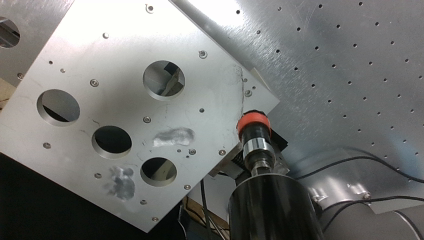
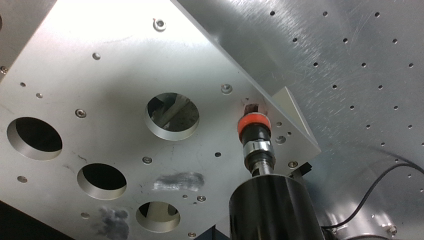
이상 에피소드 제거하고 재학습

diff --git a/source/custom/_imitation_form_converter.py b/source/custom/_imitation_form_converter.py
@@ -1726,6 +1726,27 @@ def _resolve_reference_episode_name(ep_names: Sequence[str], requested: str) -> 
     raise KeyError(f"Reference episode {requested!r} not found. Available: {list(ep_names)[:8]}...")
 
 
+def _parse_episode_indices(value: str) -> List[int]:
+    raw = str(value or "").strip()
+    if not raw:
+        return []
+    indices: List[int] = []
+    for token in raw.split(","):
+        item = token.strip()
+        if not item:
+            continue
+        try:
+            index = int(item)
+        except ValueError as exc:
+            raise argparse.ArgumentTypeError(
+                f"episode indices must be comma-separated integers, got {item!r}"
+            ) from exc
+        if index < 0:
+            raise argparse.ArgumentTypeError(f"episode index must be non-negative, got {index}")
+        indices.append(index)
+    return sorted(set(indices))
+
+
 def convert_merged_h5(
     input_h5: Path,
     output_dir: Path,
@@ -1737,6 +1758,7 @@ def convert_merged_h5(
     overwrite: bool,
     write_summary: bool,
     include_gripper: bool = False,
+    exclude_episode_indices: Sequence[int] = (),
     stain_mask_mode: str = "auto",
     stain_reference_episode: str = "ep_0000",
     stain_exclude_reference_episode: bool = True,
@@ -1820,6 +1842,7 @@ def convert_merged_h5(
 
     written: List[Path] = []
     failed: List[Tuple[str, str]] = []
+    skipped: List[Tuple[int, str]] = []
 
     with h5py.File(str(input_h5), "r") as f:
         if "episodes" not in f:
@@ -1828,6 +1851,13 @@ def convert_merged_h5(
         ep_names = sorted(name for name in f["episodes"].keys() if not str(name).endswith("__writing"))
         if not ep_names:
             raise RuntimeError(f"No episodes found under {input_h5}/episodes")
+        excluded_indices = sorted(set(int(i) for i in exclude_episode_indices))
+        invalid_indices = [i for i in excluded_indices if i < 0 or i >= len(ep_names)]
+        if invalid_indices:
+            raise ValueError(
+                f"exclude_episode_indices out of range for {len(ep_names)} episodes: {invalid_indices}"
+            )
+        excluded_set = set(excluded_indices)
 
         effective_stain_mode = _resolve_stain_mask_mode(f, stain_mask_mode)
         mask_metadata: Optional[Dict[str, object]] = None
@@ -1871,6 +1901,7 @@ def convert_merged_h5(
         print(f"[INFO] camera_names   = {camera_names}")
         print(f"[INFO] include_gripper= {int(bool(include_gripper))}")
         print(f"[INFO] episodes found = {len(ep_names)}")
+        print(f"[INFO] excluded idx   = {excluded_indices}")
         print(f"[INFO] stain_mode     = {effective_stain_mode}")
         if effective_stain_mode == "tcp_roi":
             if float(tcp_roi_area_fraction) > 0.0:
@@ -1891,8 +1922,12 @@ def convert_merged_h5(
             print(f"[INFO] stain_ref_ep   = {reference_ep_name} (exclude={int(bool(stain_exclude_reference_episode))})")
 
         out_idx = 0
-        for ep_name in ep_names:
+        for ep_index, ep_name in enumerate(ep_names):
             try:
+                if ep_index in excluded_set:
+                    skipped.append((ep_index, ep_name))
+                    print(f"[SKIP] source index {ep_index} ({ep_name}): explicitly excluded")
+                    continue
                 if (
                     effective_stain_mode == "reference_episode"
                     and bool(stain_exclude_reference_episode)
@@ -2069,6 +2104,11 @@ def convert_merged_h5(
                     "written": [str(p) for p in written],
                     "num_failed": len(failed),
                     "failed": [{"episode": ep, "error": err} for ep, err in failed],
+                    "num_excluded": len(skipped),
+                    "excluded": [
+                        {"source_index": index, "source_episode": ep}
+                        for index, ep in skipped
+                    ],
                     "schema_version": "imitation_form_compact_v1",
                     "include_gripper": bool(include_gripper),
                     "stain_mask_mode": effective_stain_mode,
@@ -2124,7 +2164,10 @@ def convert_merged_h5(
             )
         print(f"[INFO] wrote summary: {summary_path}")
 
-    print(f"[DONE] converted episodes: {len(written)} / {len(written) + len(failed)}")
+    print(
+        f"[DONE] written={len(written)}, excluded={len(skipped)}, failed={len(failed)}, "
+        f"source_total={len(written) + len(skipped) + len(failed)}"
+    )
     if not written:
         raise RuntimeError("No episodes were converted successfully.")
     return written
@@ -2162,6 +2205,15 @@ def build_parser(
     parser.add_argument("--gzip_level", type=int, default=4)
     parser.add_argument("--overwrite", action="store_true", help="Replace output_dir if it contains old episodes.")
     parser.add_argument("--write_summary", action="store_true", help="Write conversion_summary.json into output_dir.")
+    parser.add_argument(
+        "--exclude_episode_indices",
+        type=_parse_episode_indices,
+        default=[],
+        help=(
+            "Comma-separated zero-based source episode indices to exclude, for example 27,32. "
+            "Remaining episodes are renumbered contiguously in the output directory."
+        ),
+    )
     parser.add_argument(
         "--include_gripper",
         dest="include_gripper",
@@ -2543,6 +2595,7 @@ def run_cli(
         overwrite=bool(args.overwrite),
         write_summary=bool(args.write_summary),
         include_gripper=bool(args.include_gripper),
+        exclude_episode_indices=args.exclude_episode_indices,
         stain_mask_mode=str(args.stain_mask_mode),
         stain_reference_episode=str(args.stain_reference_episode),
         stain_exclude_reference_episode=not bool(args.keep_stain_reference_episode),

diff --git a/behavior_ws/src/nrs_imitation/nrs_imitation/stain_mask_publisher.py b/behavior_ws/src/nrs_imitation/nrs_imitation/stain_mask_publisher.py
@@ -87,6 +87,11 @@ class StainMaskPublisher(Node):
         self.declare_parameter("task_roi_center_x", 253)
         self.declare_parameter("task_roi_y_end", 110)
         self.declare_parameter("task_roi_half_width", 12)
+        self.declare_parameter("tcp_roi_reference_width", 424)
+        self.declare_parameter("tcp_roi_reference_height", 240)
+        self.declare_parameter("tcp_roi_center_x", 253)
+        self.declare_parameter("tcp_roi_center_y", 120)
+        self.declare_parameter("tcp_roi_area_fraction", 0.10)
         self.declare_parameter("stain_dark_thresh", 80)
         self.declare_parameter("reflection_v_thresh", 235)
         self.declare_parameter("reflection_s_thresh", 60)
@@ -103,6 +108,11 @@ class StainMaskPublisher(Node):
         self.task_roi_center_x = int(self.get_parameter("task_roi_center_x").value)
         self.task_roi_y_end = int(self.get_parameter("task_roi_y_end").value)
         self.task_roi_half_width = int(self.get_parameter("task_roi_half_width").value)
+        self.tcp_roi_reference_width = int(self.get_parameter("tcp_roi_reference_width").value)
+        self.tcp_roi_reference_height = int(self.get_parameter("tcp_roi_reference_height").value)
+        self.tcp_roi_center_x = int(self.get_parameter("tcp_roi_center_x").value)
+        self.tcp_roi_center_y = int(self.get_parameter("tcp_roi_center_y").value)
+        self.tcp_roi_area_fraction = float(self.get_parameter("tcp_roi_area_fraction").value)
         self.stain_dark_thresh = int(self.get_parameter("stain_dark_thresh").value)
         self.reflection_v_thresh = int(self.get_parameter("reflection_v_thresh").value)
         self.reflection_s_thresh = int(self.get_parameter("reflection_s_thresh").value)
@@ -110,12 +120,16 @@ class StainMaskPublisher(Node):
         self.stain_morph_kernel = int(self.get_parameter("stain_morph_kernel").value)
         self.overlay_alpha = float(self.get_parameter("overlay_alpha").value)
         self.log_every_n = max(1, int(self.get_parameter("log_every_n").value))
-        if self.mask_mode not in ("rgb_threshold", "task_roi"):
+        if self.mask_mode not in ("rgb_threshold", "task_roi", "tcp_roi"):
             raise ValueError(
-                f"mask_mode must be rgb_threshold or task_roi, got {self.mask_mode}"
+                f"mask_mode must be rgb_threshold, task_roi, or tcp_roi, got {self.mask_mode}"
             )
         if self.task_roi_half_width < 0:
             raise ValueError("task_roi_half_width must be non-negative")
+        if self.tcp_roi_reference_width <= 0 or self.tcp_roi_reference_height <= 0:
+            raise ValueError("tcp_roi reference resolution must be positive")
+        if not 0.0 < self.tcp_roi_area_fraction <= 1.0:
+            raise ValueError("tcp_roi_area_fraction must be in (0, 1]")
 
         img_qos = _image_qos(
             depth=1,
@@ -137,6 +151,9 @@ class StainMaskPublisher(Node):
             f"mode={self.mask_mode}, "
             f"task_roi=(center_x={self.task_roi_center_x}, y_end={self.task_roi_y_end}, "
             f"half_width={self.task_roi_half_width}), "
+            f"tcp_roi=(ref={self.tcp_roi_reference_width}x{self.tcp_roi_reference_height}, "
+            f"center=({self.tcp_roi_center_x},{self.tcp_roi_center_y}), "
+            f"area_fraction={self.tcp_roi_area_fraction:.6f}), "
             f"dark_thresh={self.stain_dark_thresh}, min_area={self.stain_min_area}, "
             f"morph_kernel={self.stain_morph_kernel}"
         )
@@ -159,6 +176,27 @@ class StainMaskPublisher(Node):
             mask[:y1, x0:x1] = 255
         return mask
 
+    def _make_tcp_roi_mask(self, rgb: np.ndarray) -> np.ndarray:
+        height, width = rgb.shape[:2]
+        scale_x = float(width) / float(self.tcp_roi_reference_width)
+        scale_y = float(height) / float(self.tcp_roi_reference_height)
+        center_x = int(round(self.tcp_roi_center_x * scale_x))
+        center_y = int(round(self.tcp_roi_center_y * scale_y))
+
+        side = max(
+            1,
+            int(round(np.sqrt(self.tcp_roi_area_fraction * float(width * height)))),
+        )
+        side = min(side, width, height)
+        x0 = min(max(0, center_x - side // 2), width - side)
+        y0 = min(max(0, center_y - side // 2), height - side)
+        x1 = x0 + side
+        y1 = y0 + side
+
+        mask = np.zeros((height, width), dtype=np.uint8)
+        mask[y0:y1, x0:x1] = 255
+        return mask
+
     def _on_image(self, msg: Image):
         try:
             rgb = image_to_rgb_numpy(msg)
@@ -167,6 +205,8 @@ class StainMaskPublisher(Node):
 
             if self.mask_mode == "task_roi":
                 mask = self._make_task_roi_mask(rgb)
+            elif self.mask_mode == "tcp_roi":
+                mask = self._make_tcp_roi_mask(rgb)
             else:
                 mask = generate_stain_mask_from_rgb(
                     rgb,

diff --git a/behavior_ws/src/nrs_imitation/launch/inference_gradcam_single_cam.launch.py b/behavior_ws/src/nrs_imitation/launch/inference_gradcam_single_cam.launch.py
@@ -26,6 +26,11 @@ def generate_launch_description():
     task_roi_center_x = LaunchConfiguration("task_roi_center_x")
     task_roi_y_end = LaunchConfiguration("task_roi_y_end")
     task_roi_half_width = LaunchConfiguration("task_roi_half_width")
+    tcp_roi_reference_width = LaunchConfiguration("tcp_roi_reference_width")
+    tcp_roi_reference_height = LaunchConfiguration("tcp_roi_reference_height")
+    tcp_roi_center_x = LaunchConfiguration("tcp_roi_center_x")
+    tcp_roi_center_y = LaunchConfiguration("tcp_roi_center_y")
+    tcp_roi_area_fraction = LaunchConfiguration("tcp_roi_area_fraction")
     stain_dark_thresh = LaunchConfiguration("stain_dark_thresh")
     reflection_v_thresh = LaunchConfiguration("reflection_v_thresh")
     reflection_s_thresh = LaunchConfiguration("reflection_s_thresh")
@@ -67,6 +72,11 @@ def generate_launch_description():
         DeclareLaunchArgument("task_roi_center_x", default_value="253"),
         DeclareLaunchArgument("task_roi_y_end", default_value="110"),
         DeclareLaunchArgument("task_roi_half_width", default_value="12"),
+        DeclareLaunchArgument("tcp_roi_reference_width", default_value="424"),
+        DeclareLaunchArgument("tcp_roi_reference_height", default_value="240"),
+        DeclareLaunchArgument("tcp_roi_center_x", default_value="253"),
+        DeclareLaunchArgument("tcp_roi_center_y", default_value="120"),
+        DeclareLaunchArgument("tcp_roi_area_fraction", default_value="0.10"),
         DeclareLaunchArgument("stain_dark_thresh", default_value="80"),
         DeclareLaunchArgument("reflection_v_thresh", default_value="235"),
         DeclareLaunchArgument("reflection_s_thresh", default_value="60"),
@@ -105,6 +115,11 @@ def generate_launch_description():
                 "task_roi_center_x": ParameterValue(task_roi_center_x, value_type=int),
                 "task_roi_y_end": ParameterValue(task_roi_y_end, value_type=int),
                 "task_roi_half_width": ParameterValue(task_roi_half_width, value_type=int),
+                "tcp_roi_reference_width": ParameterValue(tcp_roi_reference_width, value_type=int),
+                "tcp_roi_reference_height": ParameterValue(tcp_roi_reference_height, value_type=int),
+                "tcp_roi_center_x": ParameterValue(tcp_roi_center_x, value_type=int),
+                "tcp_roi_center_y": ParameterValue(tcp_roi_center_y, value_type=int),
+                "tcp_roi_area_fraction": ParameterValue(tcp_roi_area_fraction, value_type=float),
                 "stain_dark_thresh": ParameterValue(stain_dark_thresh, value_type=int),
                 "reflection_v_thresh": ParameterValue(reflection_v_thresh, value_type=int),
                 "reflection_s_thresh": ParameterValue(reflection_s_thresh, value_type=int),
